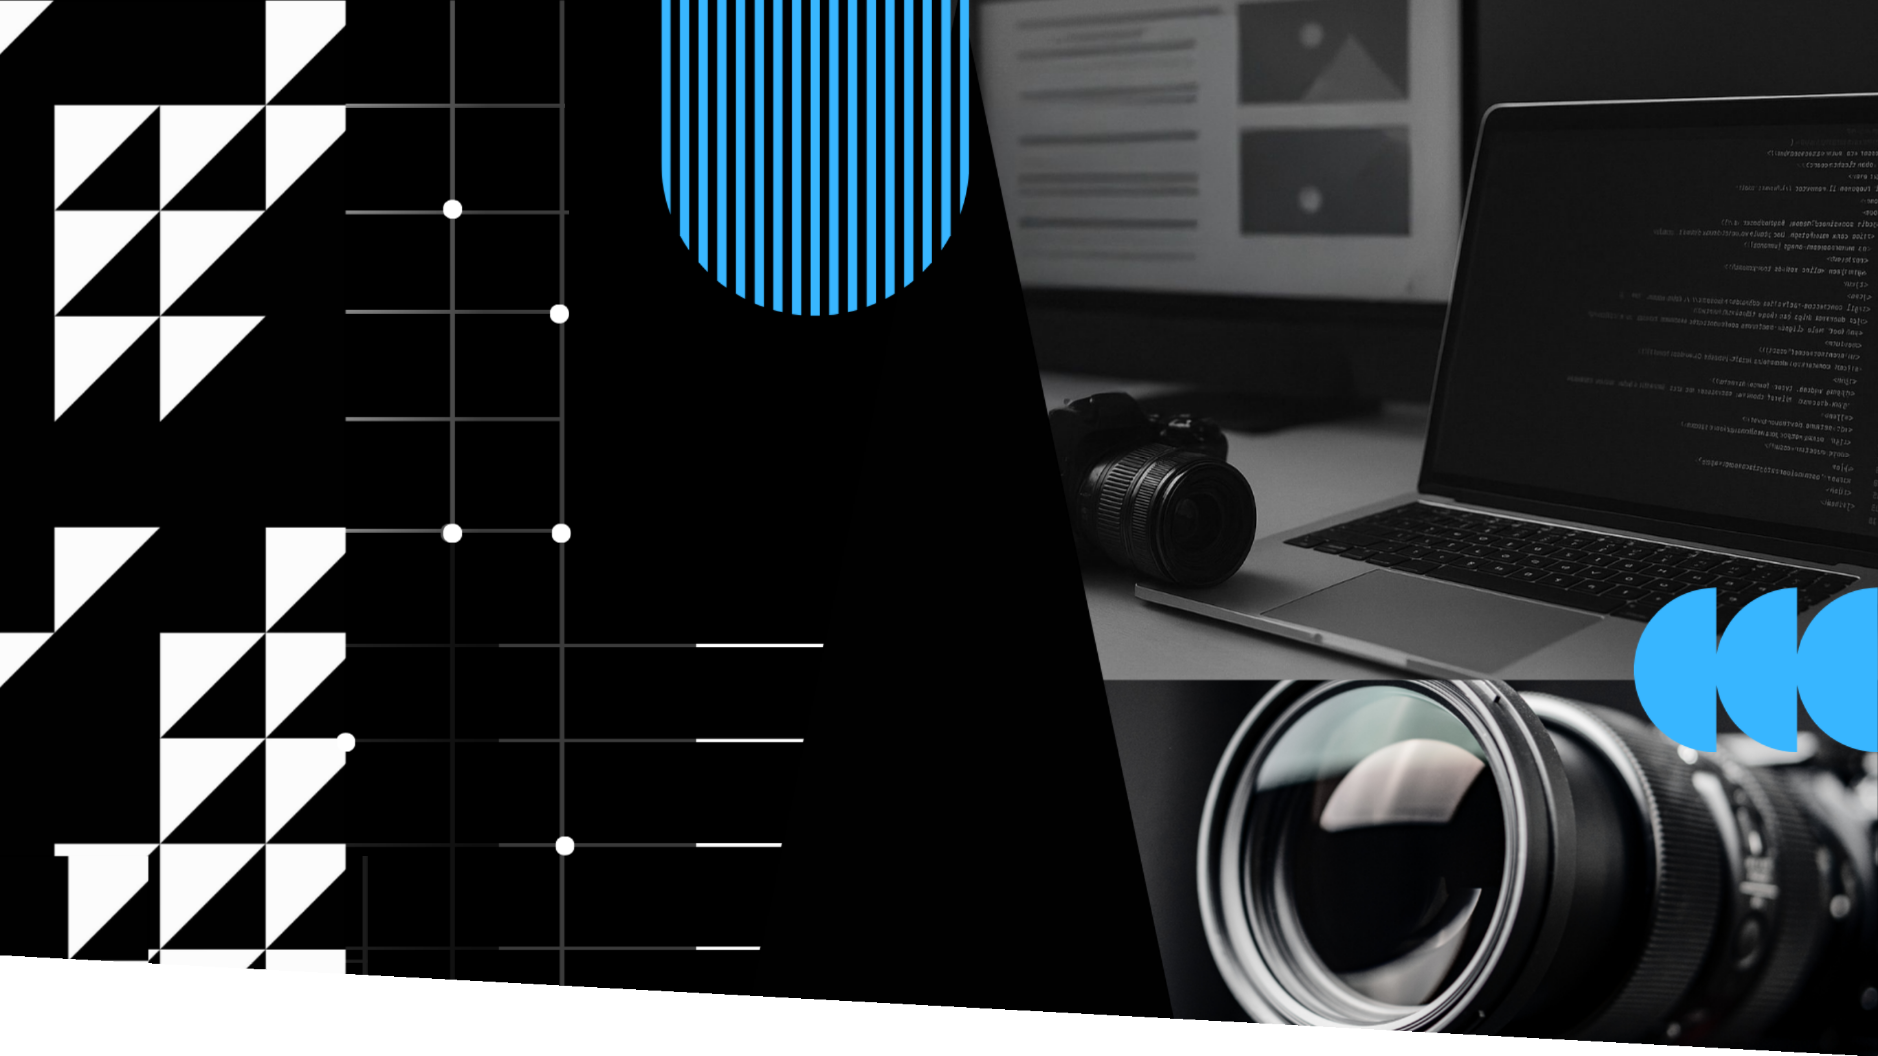
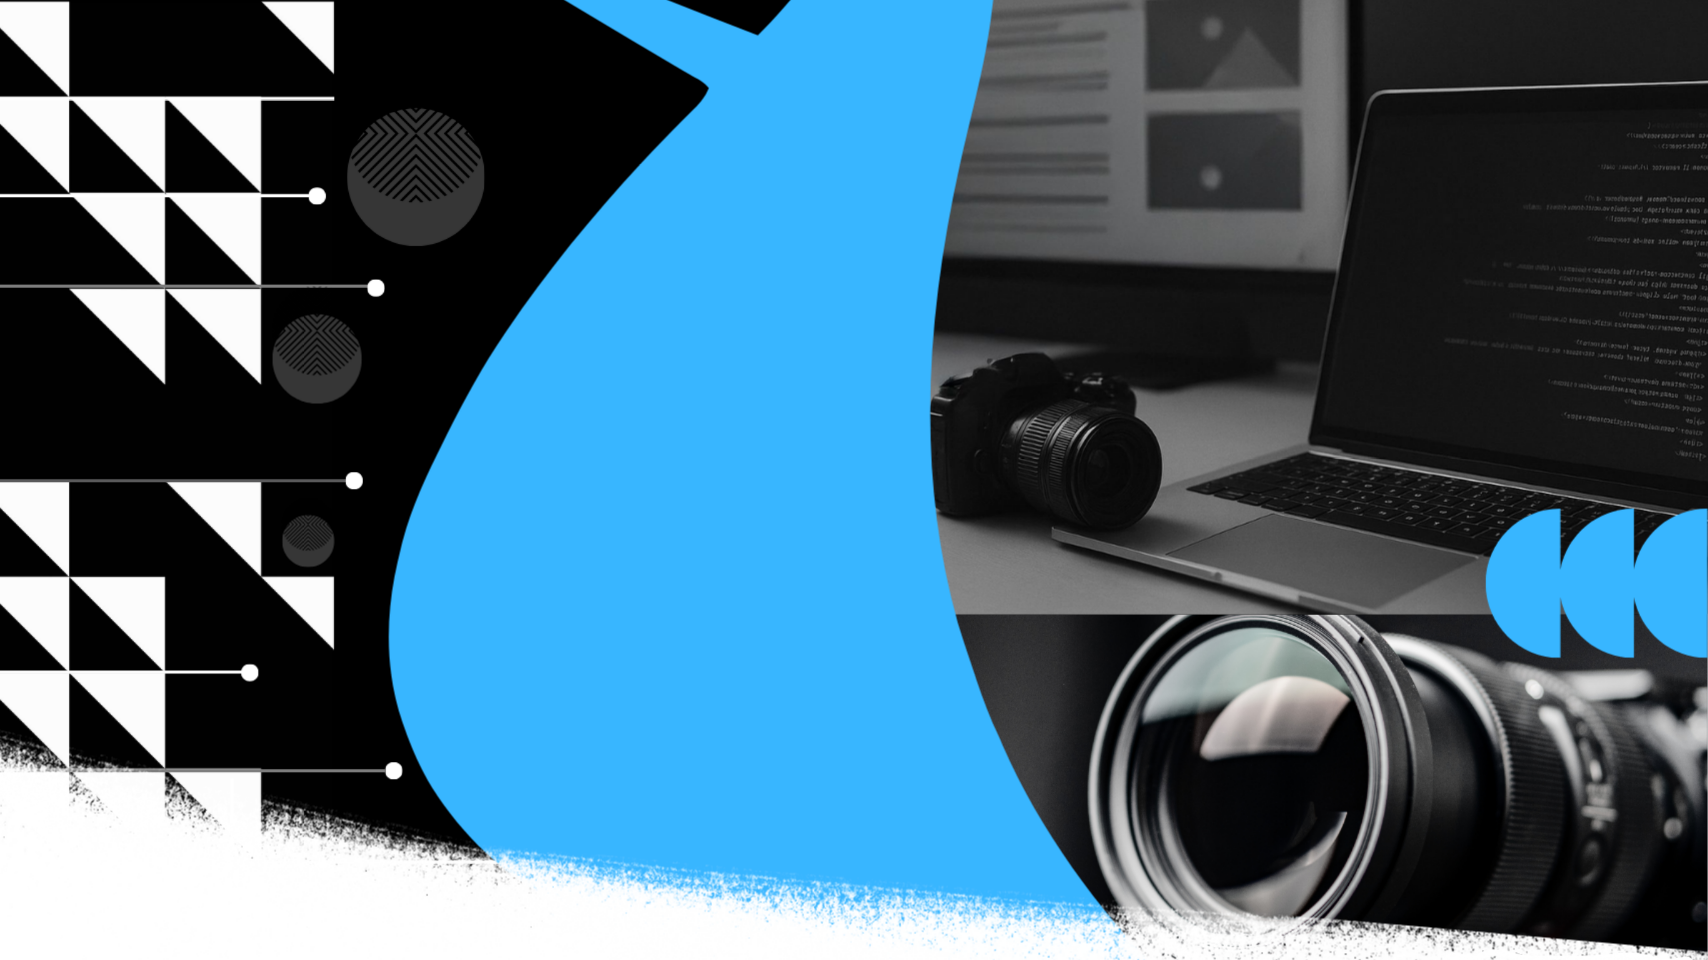
header img y contact botones

diff --git a/src/assets/components/contact/Contact.jsx b/src/assets/components/contact/Contact.jsx
@@ -85,10 +85,12 @@ const Contact = () => {
           </div>
 
           <div className="container-a-contact">
-            <div className="container-img-contact">
-              <img src={telico} alt="" />
-            </div>
-            <p className="contact-item">+54 11-3583-4703</p>
+            <a className="contact-item">
+              <div className="container-img-contact">
+                <img src={telico} alt="" />
+              </div>
+              +54 11-3583-4703
+            </a>
           </div>
           <div className="container-a-contact">
             <a

diff --git a/src/assets/components/hero/Hero.css b/src/assets/components/hero/Hero.css
@@ -5,7 +5,7 @@
   align-items: center;
   justify-content: center;
   text-align: center;
-  background-image: url(../../img/fondo3.png);
+  background-image: url(../../img/fondo2.png);
   background-repeat: no-repeat;
   background-size: cover;
   background-position: bottom;

diff --git a/src/assets/components/contact/Contact.css b/src/assets/components/contact/Contact.css
@@ -99,7 +99,7 @@
   transition: opacity 0.5s, transform 0.5s;
   display: flex;
   align-items: center;
-  justify-content: center;
+  justify-content: space-between;
   font-size: 1.1rem;
   padding: 1rem 0.5rem;
   width: 100%;
